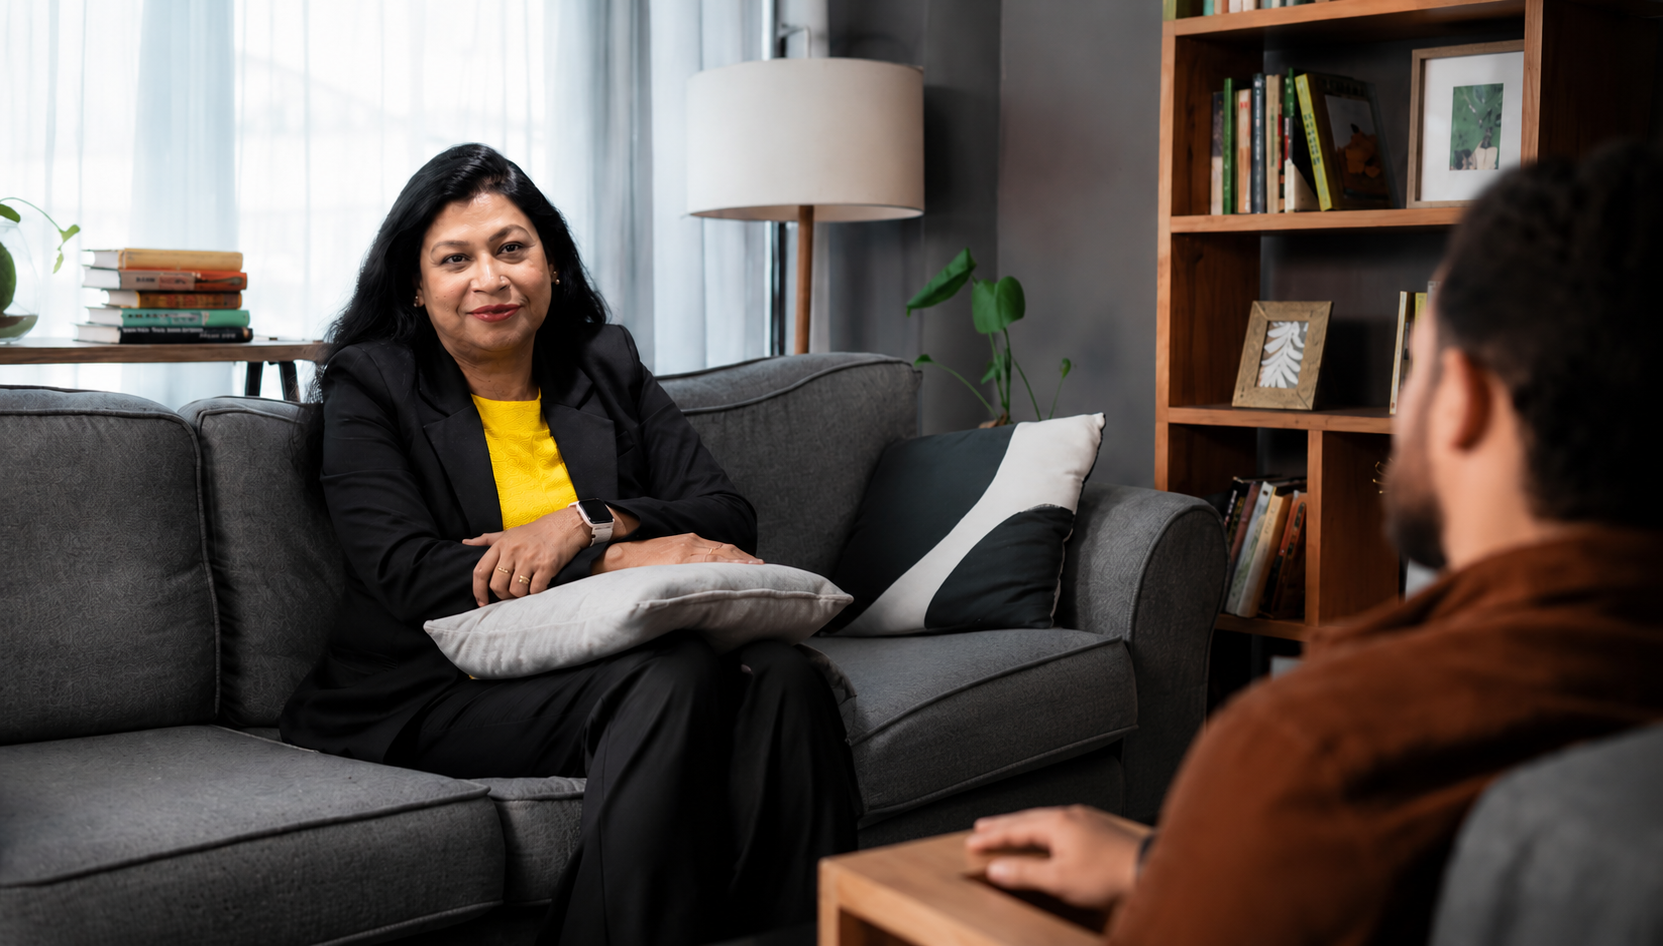
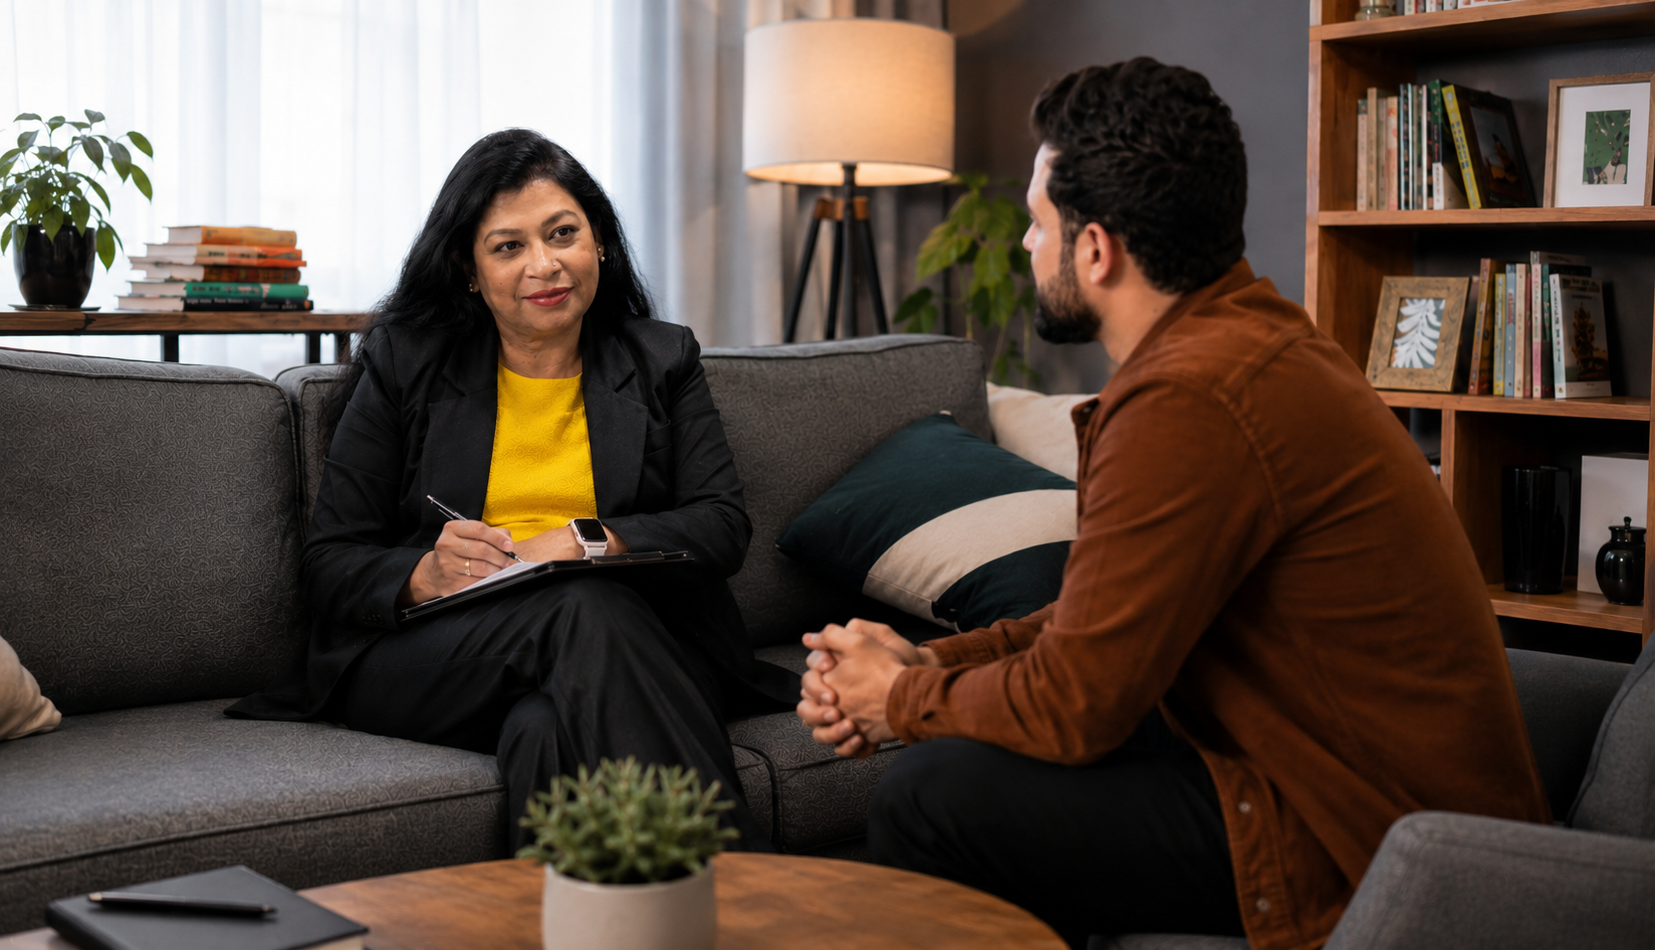
added new image

diff --git a/src/components/WhoItsFor.jsx b/src/components/WhoItsFor.jsx
@@ -25,9 +25,9 @@ const primaryAudience = [
 
 const triggers = [
   'Feel stuck, tired or overloaded',
-  'Know they need deeper clarity before scaling further',
-  'Pivoting into a new role and feel overwhelmed',
-  'Looking for a sounding board while expanding fast',
+  'Need deeper clarity before scaling further',
+  'Are pivoting into a new role and feel overwhelmed',
+  'Are looking for a sounding board while expanding fast',
 ]
 
 export default function WhoItsFor() {

diff --git a/src/components/Navbar.jsx b/src/components/Navbar.jsx
@@ -40,7 +40,7 @@ export default function Navbar({ onApplyClick }) {
           <img
             src="/black-logo.png"
             alt="Inspire Excellence"
-            className="h-8 sm:h-10 md:h-11 lg:h-12 w-auto max-w-[200px] sm:max-w-[250px] object-contain group-hover:opacity-80 transition-all duration-300 "
+            className="h-10 md:h-11 lg:h-12 w-auto max-w-[200px] sm:max-w-[250px] object-contain"
           />
         </a>
 